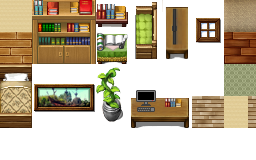
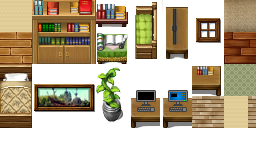
Implement changeable tiles through actions

Changed region(s): [[0.625, 0.4062, 0.875, 0.8125]]

diff --git a/engine.js b/engine.js
@@ -72,6 +72,15 @@ define([
     let players = [];
 
     let actionExecutor = new ActionExecutor();
+    actionExecutor.registerAction('toggleTile', (options, engine, player) => {
+      let layers = mapLayers.filter((layer) => layer.zIndex === player.properties.zIndex);
+      layers.forEach((layer) => {
+        let currentTile = layer.getTile(options.target.x, options.target.y);
+        let currentIndex = options.tiles.indexOf(currentTile);
+        layer.setTile(options.target.x, options.target.y, options.tiles[(currentIndex + 1) % options.tiles.length]);
+      })
+      draw();
+    });
 
     //CanvasControl.fullScreen();
     const input = new CanvasInput(document, CanvasControl());
